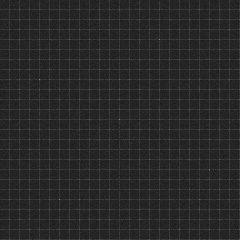
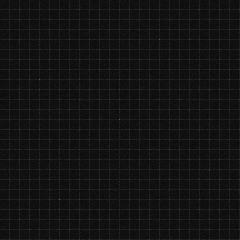
Apply hash vars to backtest; general style updates; other misc fixes

diff --git a/remote/scripts/loaders/backtest.js b/remote/scripts/loaders/backtest.js
@@ -4,8 +4,8 @@ var chart = null;
 var trades = [];
 var stat = {};
 
-requirejs(['lodash', 'jquery', 'jquery-ui', 'dataprovider', 'async', 'Keypress', 'moment-timezone', 'd3', 'simple-statistics', 'spin', 'stream', 'config/instruments', 'collection_factory', 'charting/chart', 'charting/equity_graph', 'node-uuid'],
-  function(_, $, jqueryUI, dataprovider, async, keypress, moment, d3, ss, Spinner, Stream, instruments, CollectionFactory, Chart, EquityGraph, uuid) {
+requirejs(['lodash', 'jquery', 'jquery-ui', 'dataprovider', 'async', 'Keypress', 'moment-timezone', 'd3', 'simple-statistics', 'spin', 'hash', 'stream', 'config/instruments', 'collection_factory', 'charting/chart', 'charting/equity_graph', 'node-uuid'],
+  function(_, $, jqueryUI, dataprovider, async, keypress, moment, d3, ss, Spinner, hash, Stream, instruments, CollectionFactory, Chart, EquityGraph, uuid) {
 
     var key_listener = new keypress.Listener();
 
@@ -26,8 +26,8 @@ requirejs(['lodash', 'jquery', 'jquery-ui', 'dataprovider', 'async', 'Keypress',
         source_input: 'ltf_dcdl', // Only one input is fed into when backtesting
         // TODO: Apply ('count' or 'range') to 'source_input'
 
-        count: {ltf_dcdl: 1000},
-        range: ['2016-05-01', '2016-05-13'],
+        //count: {ltf_dcdl: 2000},
+        range: ['2016-05-11', '2016-05-16'],
 
         save_inputs: true, // must be 'true' for chart to work
 
@@ -190,7 +190,7 @@ requirejs(['lodash', 'jquery', 'jquery-ui', 'dataprovider', 'async', 'Keypress',
                     count: config.count,
                     range: config.range,
                     instrument: instr,
-                    vars: config.vars
+                    vars: _.assign({}, config.vars, hash.get())
                 };
 
                 // filter on items that haven't been seen in 'n' unique instances
@@ -493,7 +493,7 @@ requirejs(['lodash', 'jquery', 'jquery-ui', 'dataprovider', 'async', 'Keypress',
         trow.children()
             .css('cursor', 'pointer')
             // on click: select trade and load chart
-            .on('click', () => {
+            .on('click', function() {
                 if (loading) return;
                 if (trades_tbody.data('selected')) {
                     trades_tbody.data('selected').children().removeClass('selected');
@@ -573,7 +573,8 @@ requirejs(['lodash', 'jquery', 'jquery-ui', 'dataprovider', 'async', 'Keypress',
                 });
                 //if (_.has(tsconfig.defs, inp.tstep)) inp.tstepconf = tsconfig.defs[inp.tstep];
                 return [inp_id, stream];
-            }))
+            })),
+            vars: _.assign({}, config.vars, hash.get())
         });
 
         CollectionFactory.create(config.collection, coll_config, (err, collection) => {
@@ -584,8 +585,14 @@ requirejs(['lodash', 'jquery', 'jquery-ui', 'dataprovider', 'async', 'Keypress',
                 container: d3.select('#bt-chart'),
                 collection: collection,
                 //selected_trade: trade.id
+                vars: _.assign({}, config.vars, hash.get())
             });
             chart.kb_listener = key_listener;
+            chart.on('setvar', (key, val) => {
+                var obj = {};
+                obj[key] = val;
+                hash.add(obj);
+            });
 
             chart.init(err => {
                 if (err) return cb(err);

diff --git a/common/indicators/cmd/StopLoss.js b/common/indicators/cmd/StopLoss.js
@@ -46,7 +46,7 @@ define(['lodash', 'node-uuid'], function(_, uuid) {
             this.vars.unitsize = this.unit_size;
             this.vars.dir = 0;
             this.vars.pos = 0;
-            this.vars.dur = 0;
+            this.vars.dur = -1;
 
             _.each(default_options, (val, key) => {
                 if (!_.has(this.param.options, key)) this.param.options[key] = val;
@@ -124,8 +124,6 @@ define(['lodash', 'node-uuid'], function(_, uuid) {
             this.vars.dir = pos.direction;
             this.vars.dur = this.index - pos.entry_bar + 1;
             this.vars.pos = this.param.options.pos;
-            this.vars.ask = this.inputs[0].get();
-            this.vars.bid = this.inputs[0].get();
             if (this.vars.dir === LONG) {
                 let base_price = this.param.options.use_close ? bar.bid.close : bar.bid.low;
                 let stop = pos.apply_step(pos.entry_price, pos.get_price(base_price, this.param.options.pos));

diff --git a/common/collections/2016-05_BB.js b/common/collections/2016-05_BB.js
@@ -137,11 +137,13 @@ Collection([
                         ], "cmd:StopLoss", {
                             //step: 1.0,
                             mode: "price",
-                            //pos: Calc("dir > 0 ? $3 && $3.long - (${stop_gap} * unitsize): $3 && $3.short + (${stop_gap} * unitsize)")
+                            pos: Calc("dir > 0 ? $3 && $3.long - (${stop_gap} * unitsize) : $3 && $3.short + (${stop_gap} * unitsize)")
+                            /*
                             pos: CondSeq("dir > 0 ? $3 && $3.long - (${stop_gap} * unitsize): $3 && $3.short + (${stop_gap} * unitsize)", [
                                 ["dur > 2", "dir > 0 ? $4.bid.low - 1.0 : $4.ask.high + 1.0"],
                                 ["dur <= 1", Reset()]
                             ])
+                            */
                         })),
 
         //movetobe:   Ind("dual,trade_evts", "cmd:MoveToBE", 6.0),

diff --git a/remote/css/result-table-dark.css b/remote/css/result-table-dark.css
@@ -66,9 +66,9 @@ table.result > tbody > tr > td > a {
 }
 
 table.result > tbody > tr > td.selected, table.result > tbody > tr > td.selected {
-    background: #008CFF;
-    color: white;
-    border: 2px solid rgb(51, 122, 180);
+    color: #ffffff;
+    background: #206AB4;
+    border-color: #206AB4;
 }
 
 table.result > tbody > tr > td.selected > a {
@@ -91,8 +91,7 @@ table.result > tbody > tr > td {
     -moz-user-select: none;
 }
 
-table.result > tbody > tr:hover > td {
-    color: #ffffff;
-    background: #206AB4;
-    border-color: #206AB4;
+table.result > tbody > tr:hover > td:not(.selected) {
+    color: #B8B8B8;
+    background: #68610D;
 }

diff --git a/remote/css/backtest-dark.css b/remote/css/backtest-dark.css
@@ -1,6 +1,6 @@
 #bt-head {
     padding: 10px;
-    background: url(/img/inflicted.png);
+    background: url(/img/wild_oliva.png);
 }
 
 #bt-chart {
@@ -31,7 +31,8 @@
 }
 
 canvas {
-    background: rgba(32, 32, 32, .6);
+    /*background: rgba(32, 32, 32, .6);*/
+    background: url(/img/inflicted.png);
 }
 
 .negval {

diff --git a/remote/css/chart-default-dark.css b/remote/css/chart-default-dark.css
@@ -1,5 +1,5 @@
 #head {
-    background-image: url(/img/inflicted.png);
+    background-image: url(/img/wild_oliva.png);
     color: #ccc;
 }
 
